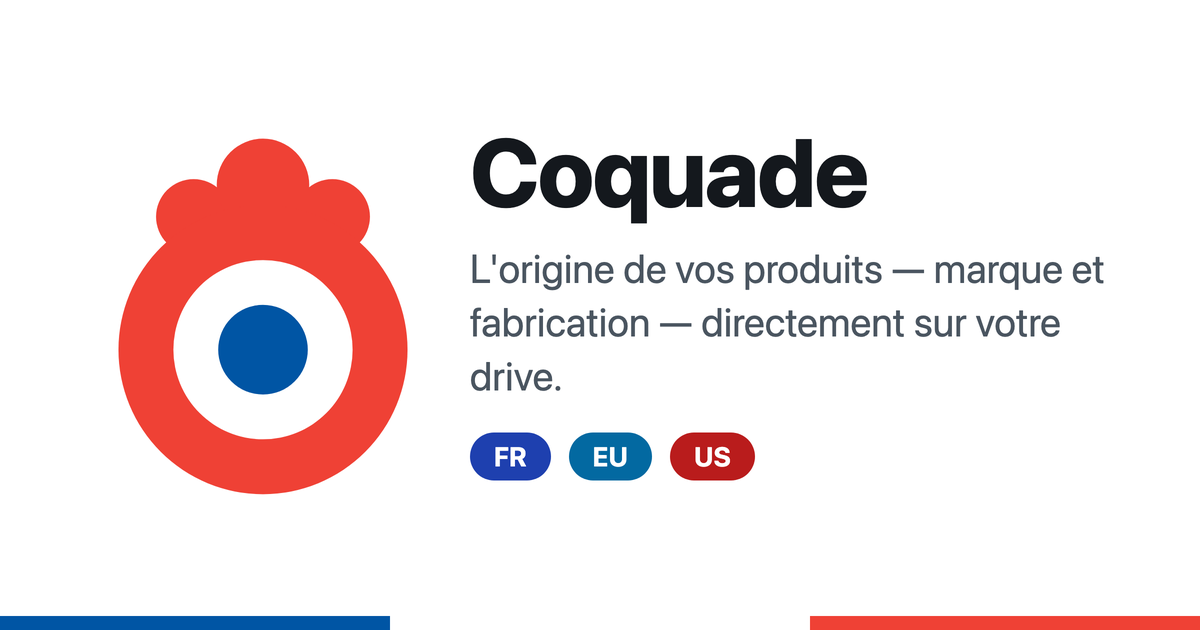
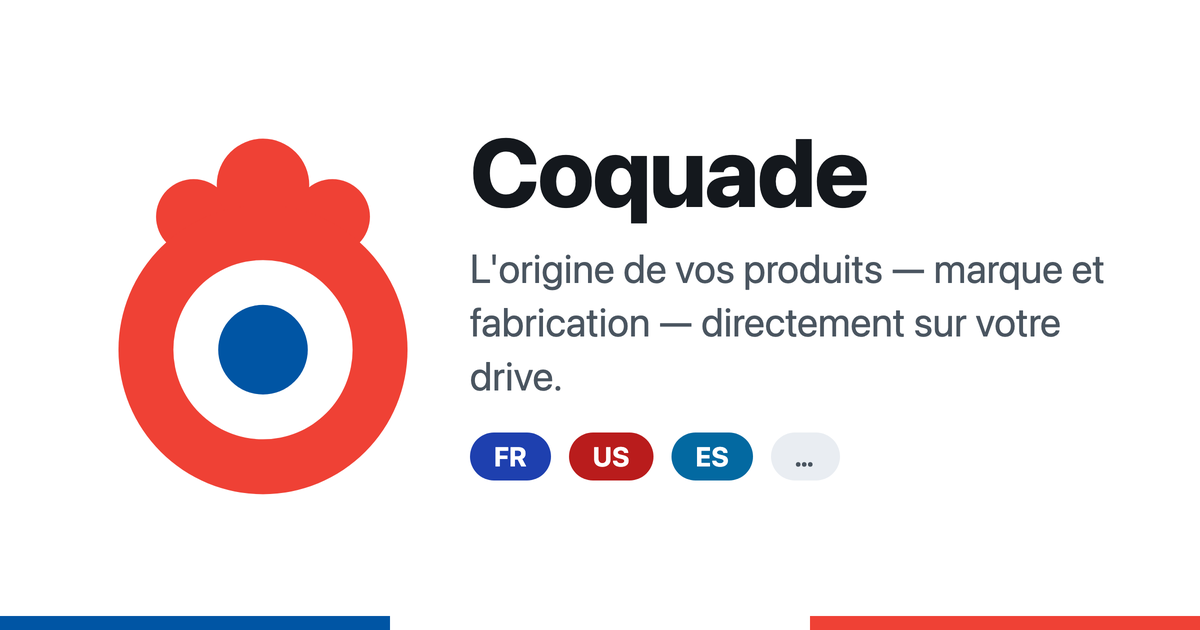
feat(landing): liens « Ajouter à Chrome » branchés sur la fiche Chrome Web Store
Fiche publiée le 20 août 2026. Hero + bandeau final pointent sur
chromewebstore.google.com/detail/ceohpidjkdopmbhkanleijicbmioekdf
(target _blank, rel noopener), lien ajouté à llms.txt, URL consignée
dans docs/store-submission.md. Inclut le PNG og-image régénéré
(pastilles FR/US/ES/…) oublié du commit précédent.

Changed region(s): [[0.4625, 0.6635, 0.6783, 0.7841]]

diff --git a/landing/index.html b/landing/index.html
@@ -101,7 +101,7 @@
           Sans quitter la page, sans rien configurer.
         </p>
         <div class="hero__actions">
-          <a class="btn btn--primary" href="#installer">Ajouter à Chrome</a>
+          <a class="btn btn--primary" href="https://chromewebstore.google.com/detail/ceohpidjkdopmbhkanleijicbmioekdf" target="_blank" rel="noopener">Ajouter à Chrome</a>
           <span class="btn btn--soon">Bientôt sur Firefox</span>
         </div>
         <ul class="hero__trust">
@@ -524,8 +524,8 @@
           Ajoutez Coquade et faites vos courses en connaissance de cause.
         </p>
         <div class="cta-band__actions">
-          <!-- TODO soumission stores : remplacer les href par les URLs Chrome Web Store / Firefox Add-ons -->
-          <a class="btn btn--light" href="#">Ajouter à Chrome</a>
+          <!-- TODO soumission AMO : ajouter le lien Firefox Add-ons à la place de la pastille « bientôt » -->
+          <a class="btn btn--light" href="https://chromewebstore.google.com/detail/ceohpidjkdopmbhkanleijicbmioekdf" target="_blank" rel="noopener">Ajouter à Chrome</a>
           <span class="btn btn--soon-light">Bientôt sur Firefox</span>
         </div>
         <p class="cta-band__trust">Gratuit&nbsp;· Open source&nbsp;· Aucune donnée collectée</p>

diff --git a/docs/store-submission.md b/docs/store-submission.md
@@ -92,6 +92,9 @@ prescrit pas (« évitez US » est réservé à la communication hors store).
 ## Par store
 
 ### Chrome Web Store
+- **Publiée le 20 août 2026** :
+  https://chromewebstore.google.com/detail/ceohpidjkdopmbhkanleijicbmioekdf
+  (liens « Ajouter à Chrome » de la landing branchés dessus).
 - Compte développeur (5 $ une fois), fiche + formulaire données + privacy URL.
 - Upload : `npm run zip` → `.output/arbiter-<version>-chrome.zip`.
 
